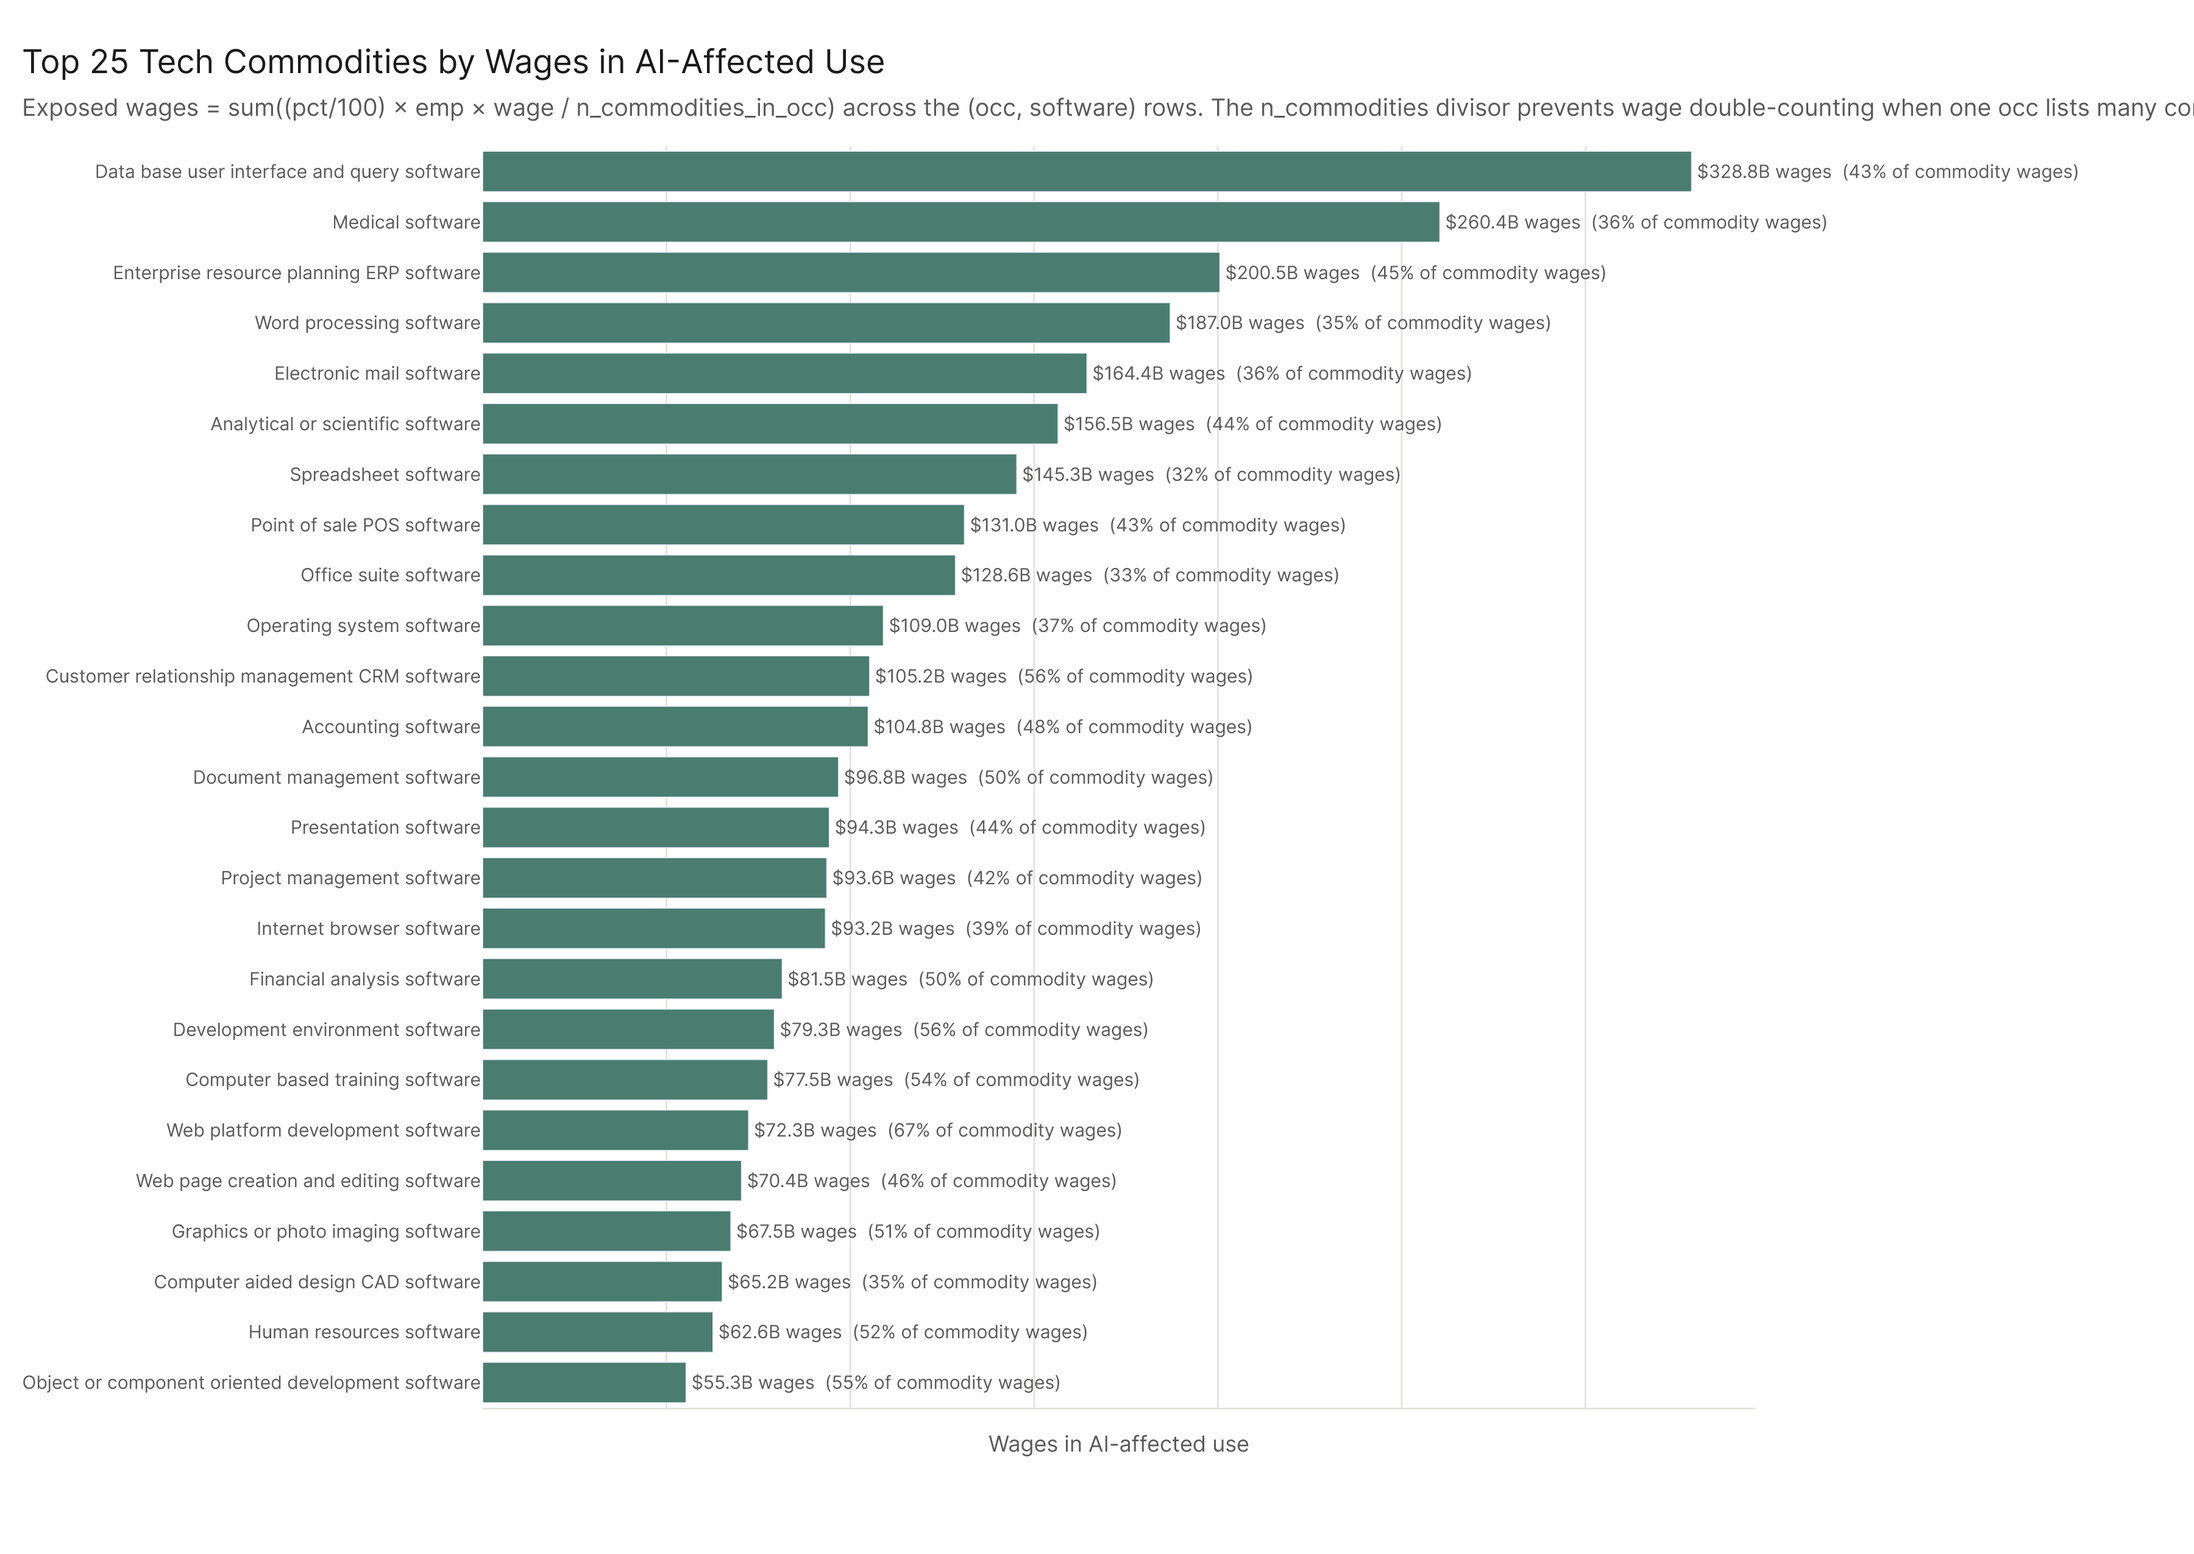
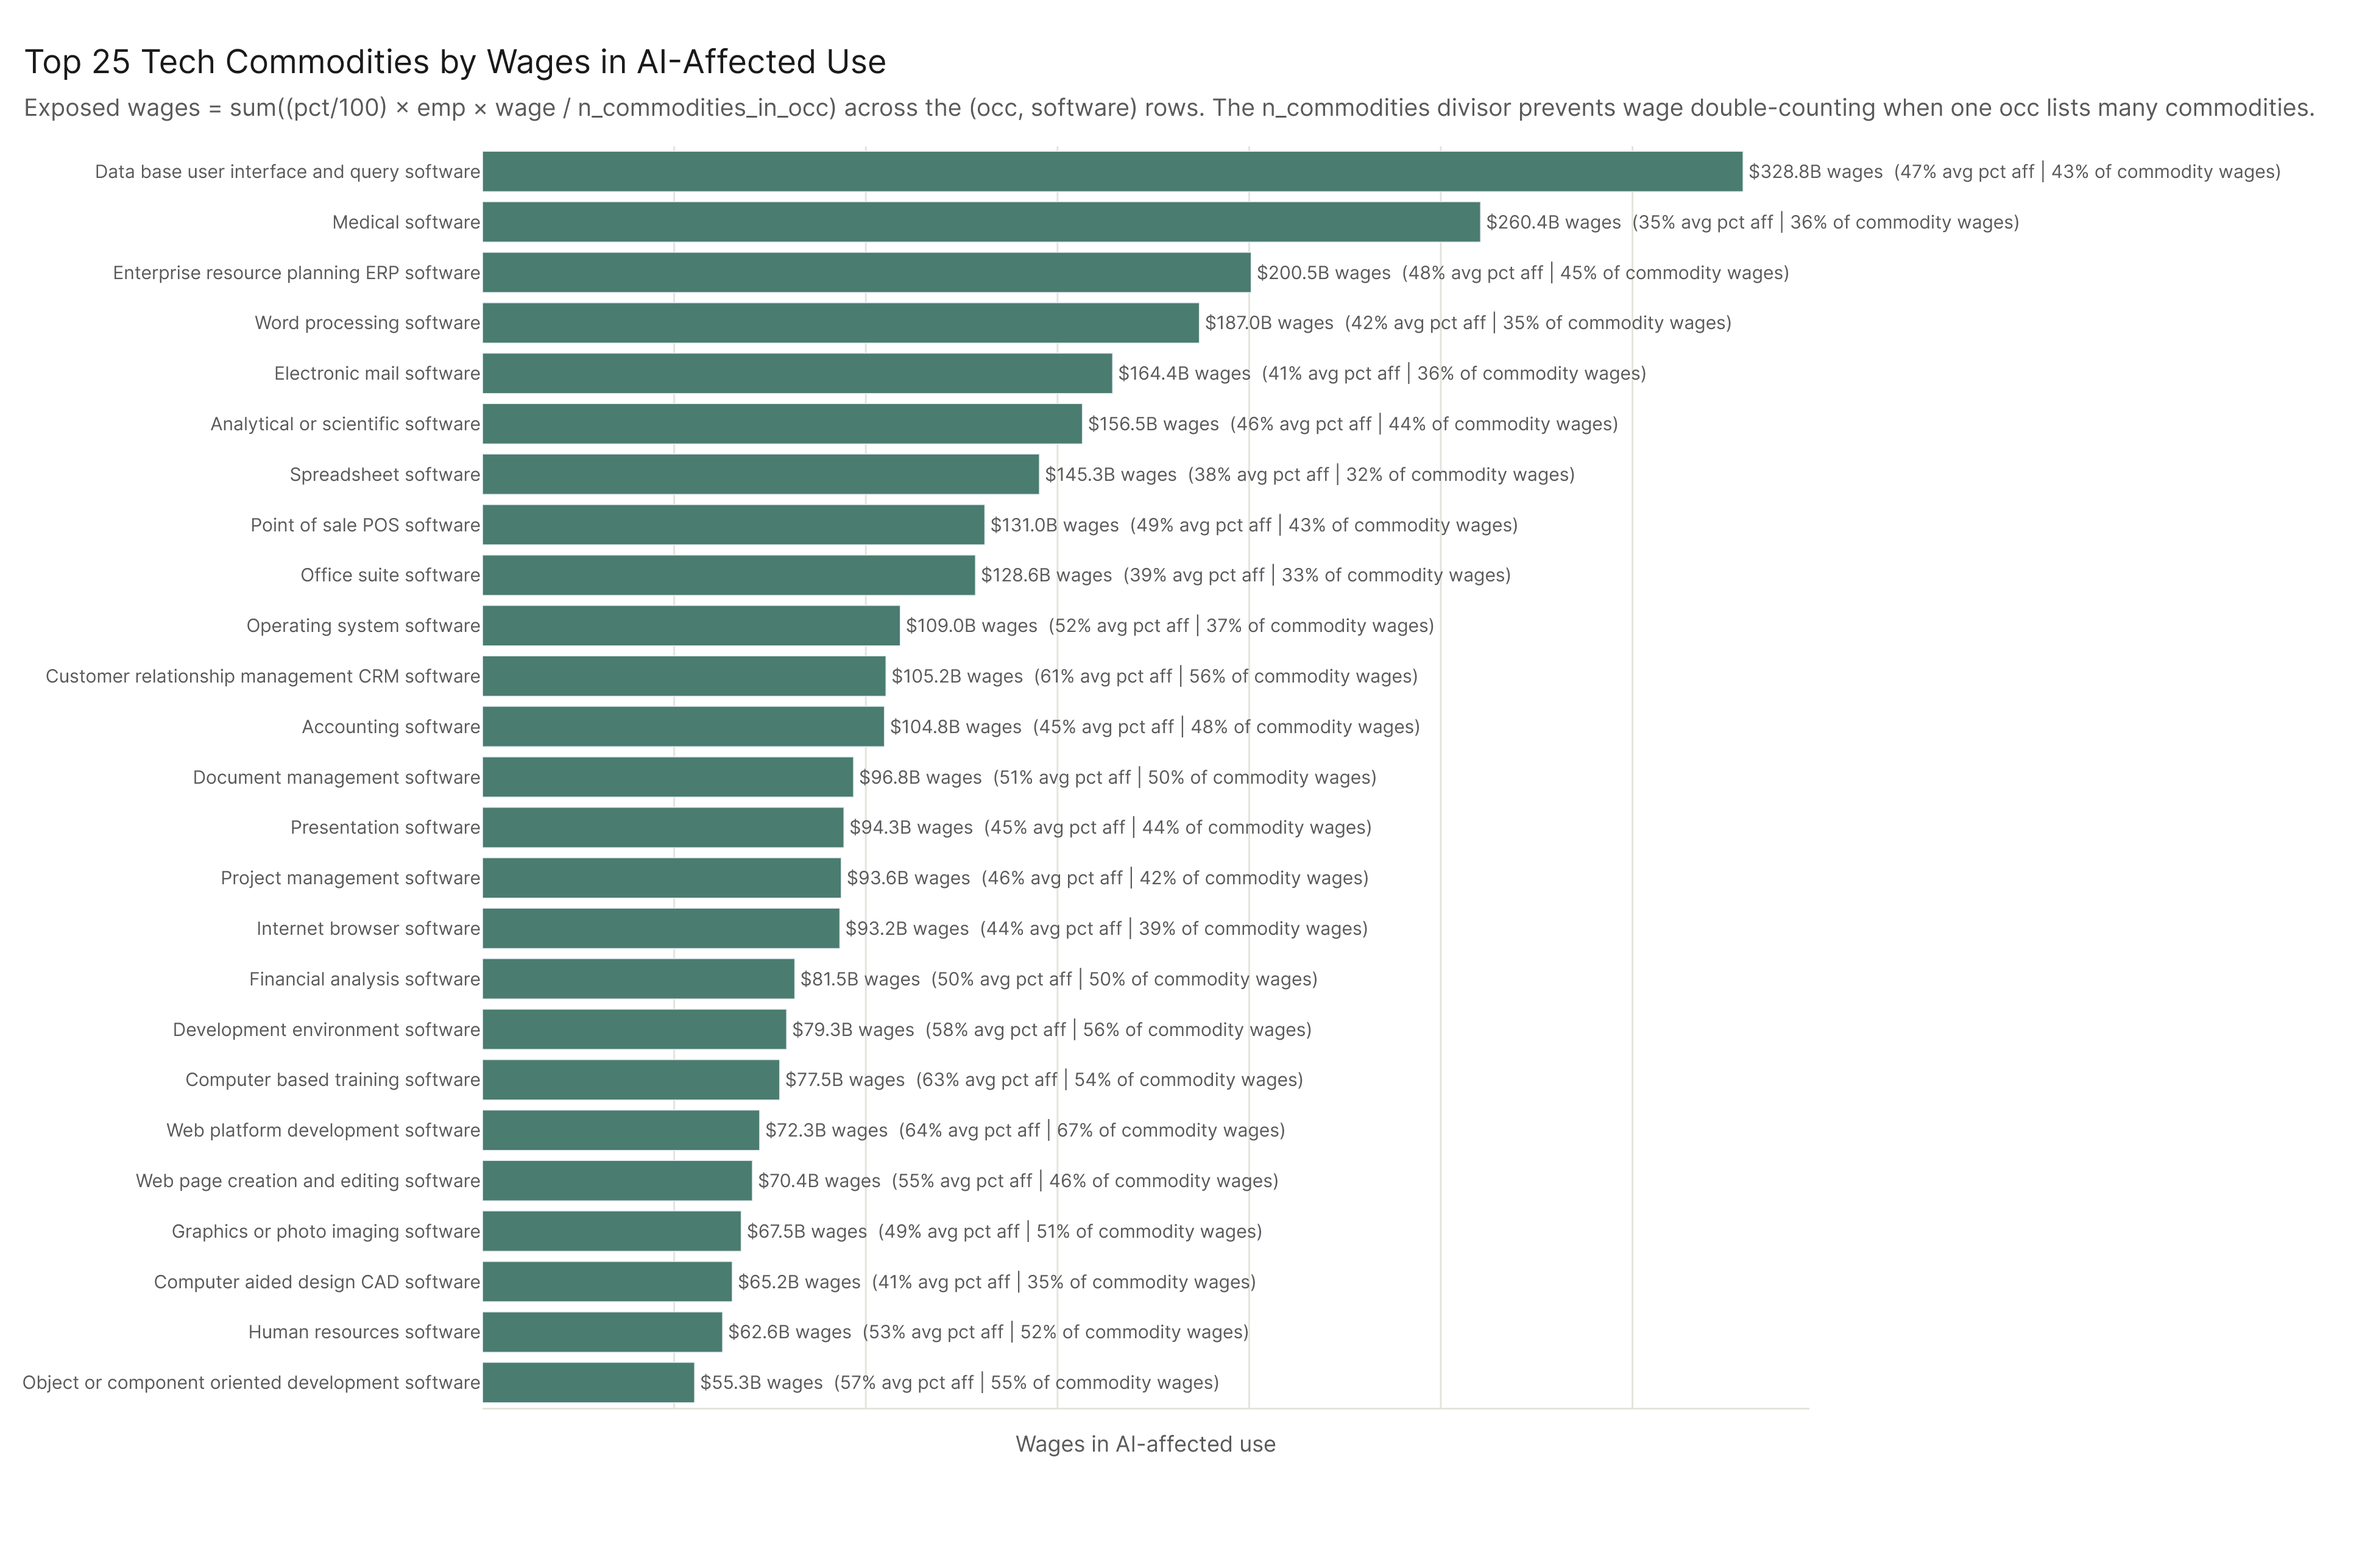
skills landscape charts changed

Changed region(s): [[0.0, 0.031, 1.0, 0.8984]]

diff --git a/analysis/questions/economic_footprint/skills_landscape/run.py b/analysis/questions/economic_footprint/skills_landscape/run.py
@@ -257,6 +257,39 @@ def chart3_wages_affected(tech: pd.DataFrame) -> pd.DataFrame:
     return agg.sort_values("wages_affected", ascending=False)
 
 
+def chart_composite_ranking(
+    chart1: pd.DataFrame, chart2: pd.DataFrame, chart3: pd.DataFrame,
+    top_n: int = 25, pct_weight: float = 1.0,
+) -> pd.DataFrame:
+    """Weighted geometric-mean composite of pct_affected (depth) and workers_affected (breadth).
+
+    Both metrics are min-max normalized to 0-1, then combined as
+    (norm_pct^pct_weight × norm_workers)^(1/(pct_weight+1)).
+    pct_weight=1 → equal weighting; pct_weight=2 → depth counts double.
+    """
+    merged = chart1[["Commodity Title", "mean_pct_affected", "n_occs", "n_entries"]].merge(
+        chart2[["Commodity Title", "workers_affected", "pct_of_commodity_workers"]],
+        on="Commodity Title",
+        how="inner",
+    ).merge(
+        chart3[["Commodity Title", "wages_affected", "pct_of_commodity_wages"]],
+        on="Commodity Title",
+        how="inner",
+    )
+    total_entries = chart1["n_entries"].sum()
+    merged["pct_of_all_entries"] = merged["n_entries"] / total_entries * 100.0
+    # min-max normalize
+    pct_min, pct_max = merged["mean_pct_affected"].min(), merged["mean_pct_affected"].max()
+    wrk_min, wrk_max = merged["workers_affected"].min(), merged["workers_affected"].max()
+    merged["norm_pct"] = (merged["mean_pct_affected"] - pct_min) / (pct_max - pct_min)
+    merged["norm_workers"] = (merged["workers_affected"] - wrk_min) / (wrk_max - wrk_min)
+    total_weight = pct_weight + 1.0
+    merged["composite"] = (
+        merged["norm_pct"] ** pct_weight * merged["norm_workers"]
+    ) ** (1.0 / total_weight)
+    return merged.sort_values("composite", ascending=False).head(top_n)
+
+
 def aggregate_tech_by_major(tech: pd.DataFrame, top_categories: list[str]) -> pd.DataFrame:
     """
     For top tech categories: count distinct occupations per (major, category),
@@ -468,12 +501,18 @@ def _build_tech_workers_affected(chart2: pd.DataFrame, top_n: int = 25) -> go.Fi
     return fig
 
 
-def _build_tech_wages_affected(chart3: pd.DataFrame, top_n: int = 25) -> go.Figure:
+def _build_tech_wages_affected(chart3: pd.DataFrame, chart1: pd.DataFrame, top_n: int = 25) -> go.Figure:
     """Chart 3: top commodities by exposed wages (with n-commodities-in-occ divisor)."""
-    top = chart3.head(top_n).sort_values("wages_affected", ascending=True)
+    top = chart3.head(top_n).copy()
+    top = top.merge(
+        chart1[["Commodity Title", "mean_pct_affected"]],
+        on="Commodity Title",
+        how="left",
+    )
+    top = top.sort_values("wages_affected", ascending=True)
     labels = [
-        f"{_format_dollars(w)} wages  ({p:.0f}% of commodity wages)"
-        for w, p in zip(top["wages_affected"], top["pct_of_commodity_wages"])
+        f"{_format_dollars(w)} wages  ({mp:.0f}% avg pct aff | {p:.0f}% of commodity wages)"
+        for w, mp, p in zip(top["wages_affected"], top["mean_pct_affected"], top["pct_of_commodity_wages"])
     ]
     fig = go.Figure(go.Bar(
         x=top["wages_affected"],
@@ -492,10 +531,10 @@ def _build_tech_wages_affected(chart3: pd.DataFrame, top_n: int = 25) -> go.Figu
                   "the (occ, software) rows. The n_commodities divisor prevents wage "
                   "double-counting when one occ lists many commodities."),
         x_title="Wages in AI-affected use",
-        show_legend=False, height=850, width=1200,
+        show_legend=False, height=850, width=1300,
     )
     fig.update_layout(
-        margin=dict(l=20, r=240),
+        margin=dict(l=20, r=310),
         xaxis=dict(showgrid=True, gridcolor=COLORS["border"], showticklabels=False),
         yaxis=dict(showgrid=False, showline=False, tickfont=dict(size=10)),
         bargap=0.2,
@@ -542,6 +581,148 @@ def _build_tech_major_heatmap(
         xaxis=dict(side="bottom", tickangle=-35, showgrid=False, showline=False, tickfont=dict(size=9)),
         yaxis=dict(showgrid=False, showline=False, tickfont=dict(size=10)),
         margin=dict(l=280, r=80, t=90, b=200),
+    )
+    return fig
+
+
+def _build_tech_composite(
+    comp: pd.DataFrame, pct_weight: float = 1.0, stripe_wages: bool = False,
+) -> go.Figure:
+    """Composite chart: weighted geometric mean of normalized pct × workers.
+
+    Bar color intensity reflects mean_pct_affected (darker = higher).
+    Labels show workers, wages, % of users, occs, entries — no composite score.
+    Economy totals displayed in subtitle for context.
+
+    stripe_wages: if True, bars get diagonal stripe pattern whose density
+    (solidity) scales with wages_affected — denser stripes = more wages.
+    """
+    top = comp.sort_values("composite", ascending=True)
+
+    # Economy totals for subtitle context
+    total_workers = comp["workers_affected"].sum()
+    total_wages = comp["wages_affected"].sum()
+    total_occs = comp["n_occs"].sum()
+    total_entries = int(comp["n_entries"].sum())
+
+    labels = [
+        (f"{_format_workers(wk)} workers | {_format_dollars(wa)} wages | "
+         f"{pu:.0f}% of users | {o} occs | {int(ne):,} entries")
+        for wk, wa, pu, o, ne in zip(
+            top["workers_affected"], top["wages_affected"],
+            top["pct_of_commodity_workers"], top["n_occs"],
+            top["n_entries"],
+        )
+    ]
+    weight_label = "" if pct_weight == 1.0 else f" (pct weighted {pct_weight:.0f}×)"
+    totals_line = (f"Top-{len(comp)} totals: {_format_workers(total_workers)} workers | "
+                   f"{_format_dollars(total_wages)} wages | "
+                   f"{total_occs:,} occ entries | {total_entries:,} software entries")
+
+    fig = go.Figure()
+    fig.add_trace(go.Bar(
+        x=top["composite"],
+        y=top["Commodity Title"],
+        orientation="h",
+        marker=dict(
+            color=top["mean_pct_affected"].values,
+            colorscale=[[0, "#c4d9d2"], [1, "#0a2e25"]],
+            showscale=True,
+            colorbar=dict(
+                title=dict(text="Avg % tasks affected", side="top"),
+                ticksuffix="%",
+                tickfont=dict(size=9),
+                orientation="h",
+                x=0.35,
+                y=-0.06,
+                xanchor="center",
+                yanchor="top",
+                len=0.3,
+                thickness=12,
+            ),
+        ),
+        text=labels,
+        textposition="outside",
+        textfont=dict(size=9, color=COLORS["neutral"], family=FONT_FAMILY),
+        cliponaxis=False,
+        showlegend=False,
+    ))
+
+    if stripe_wages:
+        dot_x1 = top["composite"].max() * 0.015
+        dot_x2 = top["composite"].max() * 0.045
+        # Blue squares: workers affected
+        fig.add_trace(go.Scatter(
+            x=[dot_x1] * len(top),
+            y=top["Commodity Title"],
+            mode="markers",
+            marker=dict(
+                size=11,
+                symbol="square",
+                color=top["workers_affected"].values,
+                colorscale=[[0, "#dbeafe"], [1, "#1e40af"]],
+                showscale=True,
+                colorbar=dict(
+                    title=dict(text="Workers affected", side="top"),
+                    tickfont=dict(size=9),
+                    orientation="h",
+                    x=0.55,
+                    y=-0.06,
+                    xanchor="center",
+                    yanchor="top",
+                    len=0.25,
+                    thickness=12,
+                    tickformat=".0s",
+                ),
+                line=dict(width=0.5, color="#1e3a5f"),
+            ),
+            hoverinfo="skip",
+            showlegend=False,
+        ))
+        # Orange squares: wages affected
+        fig.add_trace(go.Scatter(
+            x=[dot_x2] * len(top),
+            y=top["Commodity Title"],
+            mode="markers",
+            marker=dict(
+                size=11,
+                symbol="square",
+                color=top["wages_affected"].values,
+                colorscale=[[0, "#fde8c8"], [1, "#c2410c"]],
+                showscale=True,
+                colorbar=dict(
+                    title=dict(text="Wages affected", side="top"),
+                    tickprefix="$",
+                    tickfont=dict(size=9),
+                    orientation="h",
+                    x=0.85,
+                    y=-0.06,
+                    xanchor="center",
+                    yanchor="top",
+                    len=0.25,
+                    thickness=12,
+                    tickformat=".0s",
+                ),
+                line=dict(width=0.5, color="#9a3412"),
+            ),
+            hoverinfo="skip",
+            showlegend=False,
+        ))
+    wage_note = " Blue squares = workers; orange squares = wages." if stripe_wages else ""
+    style_figure(
+        fig,
+        f"Top {len(top)} Tech Commodities — Depth × Breadth Composite{weight_label}",
+        subtitle=(f"Weighted geometric mean of min-max-normalized % tasks affected "
+                  f"(weight {pct_weight:.0f}) and workers (weight 1). "
+                  f"Darker bars = higher avg % tasks affected.{wage_note}<br>"
+                  f"{totals_line}"),
+        show_legend=False, height=900, width=1600,
+    )
+    fig.update_layout(
+        margin=dict(l=20, r=480, t=110, b=80),
+        xaxis=dict(showgrid=True, gridcolor=COLORS["border"], showticklabels=False),
+        yaxis=dict(showgrid=False, showline=False, tickfont=dict(size=10)),
+        bargap=0.2,
     )
     return fig
 
@@ -606,12 +787,18 @@ def main() -> None:
     save_csv(chart2, results / "tech_workers_affected_economy.csv")
     save_csv(chart3, results / "tech_wages_affected_economy.csv")
 
+    # Composite: geometric mean of normalized pct × workers
+    composite = chart_composite_ranking(chart1, chart2, chart3, top_n=25)
+    composite_2x = chart_composite_ranking(chart1, chart2, chart3, top_n=25, pct_weight=2.0)
+    save_csv(composite, results / "tech_composite_economy.csv")
+    save_csv(composite_2x, results / "tech_composite_2x_economy.csv")
+
     # Heatmap columns are ordered by Chart 2 (exposed workers) ranking
     top_25_by_workers = chart2.head(25)["Commodity Title"].tolist()
     major_tech = aggregate_tech_by_major(tech, top_25_by_workers)
     save_csv(major_tech, results / "tech_categories_major.csv")
     print(
-        f"  Tech: {len(chart1)} commodities; chart 1 (pct), 2 (workers), 3 (wages) saved."
+        f"  Tech: {len(chart1)} commodities; chart 1 (pct), 2 (workers), 3 (wages), composite saved."
     )
 
     # ── 4. Figures ────────────────────────────────────────────────────────────
@@ -639,9 +826,17 @@ def main() -> None:
     # 4f–4h. Three tech commodity charts
     _save_committed(_build_tech_pct_affected(chart1, top_n=25), "tech_pct_affected.png")
     _save_committed(_build_tech_workers_affected(chart2, top_n=25), "tech_workers_affected.png")
-    _save_committed(_build_tech_wages_affected(chart3, top_n=25), "tech_wages_affected.png")
+    _save_committed(_build_tech_wages_affected(chart3, chart1, top_n=25), "tech_wages_affected.png")
 
-    # 4i. Tech × major heatmap (sorted by Chart 2 ranking)
+    # 4i. Tech composite (depth × breadth)
+    _save_committed(_build_tech_composite(composite), "tech_composite.png")
+    _save_committed(_build_tech_composite(composite_2x, pct_weight=2.0), "tech_composite_2x.png")
+    _save_committed(
+        _build_tech_composite(composite_2x, pct_weight=2.0, stripe_wages=True),
+        "tech_composite_2x_striped.png",
+    )
+
+    # 4j. Tech × major heatmap (sorted by Chart 2 ranking)
     _save_committed(
         _build_tech_major_heatmap(major_tech, top_25_by_workers),
         "tech_major_heatmap.png",
